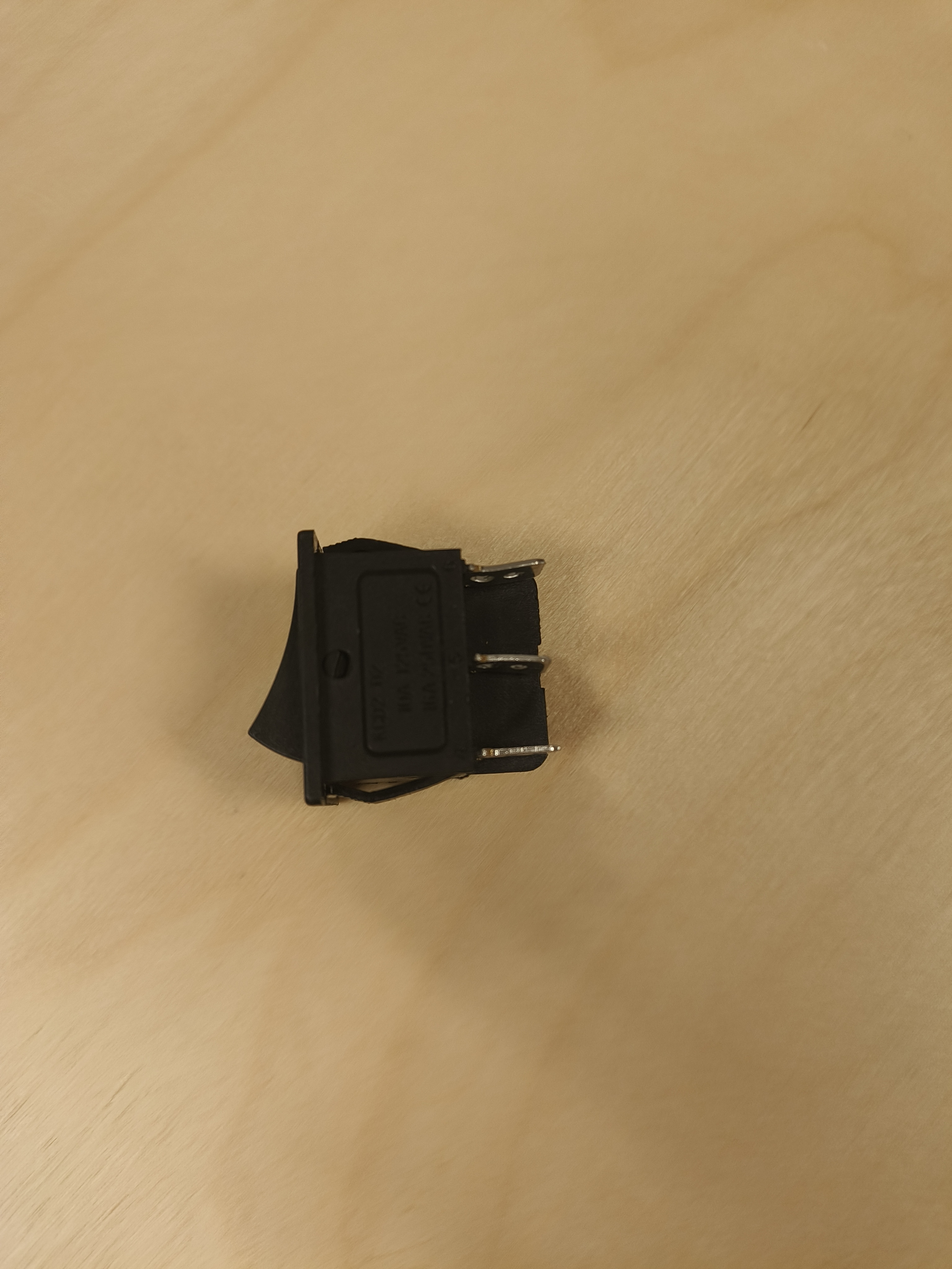
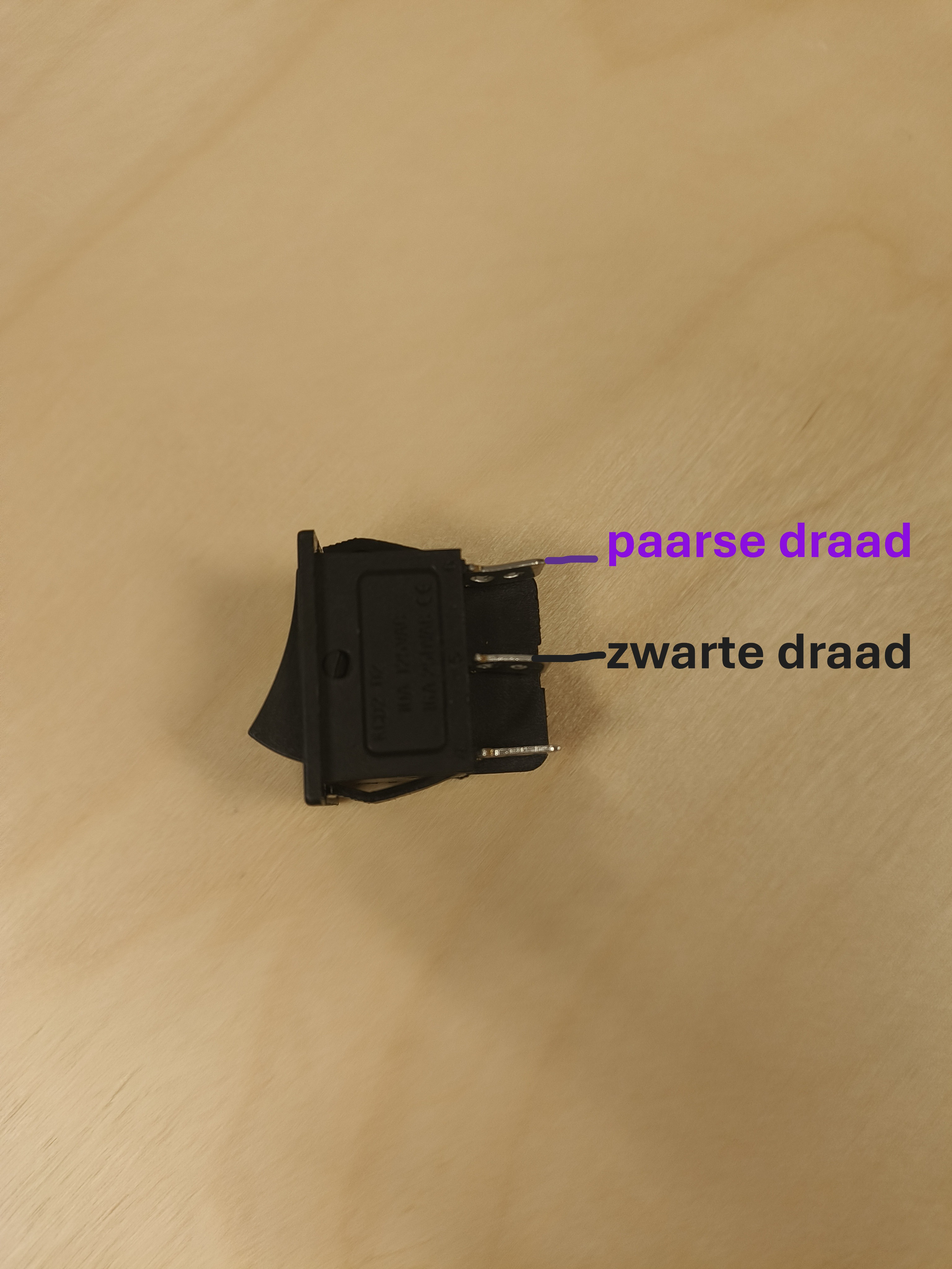
update

Changed region(s): [[0.5625, 0.4062, 0.9688, 0.4688], [0.5625, 0.5, 0.9688, 0.5312]]

diff --git a/Archief/README.md b/Archief/README.md
@@ -1,0 +1,59 @@
+# Snelheidsbegrenzing
+Dit is een bestand over de onderdelen die we onderzocht hebben met het orginele idee om de snelheid te begrenzen, 
+maar we hebben geen snelheidsbegrenzer meer nodig aangezien we de low speed modus zullen gebruiken.
+
+## Snelheidsbegrenzer
+### Huidige motor
+
+#### HY2005M-HL-24V
+
+Dit is de motor die momenteel in de auto zit. De motor controller heeft een schakelaar met een ingangsspanning van 24V, dit is ontworpen voor het regelen van de snelheid in twee standen (low speed & high speed) en de richting (vooruit & achteruit).
+
+- Een ingangsspanning van 24V DC
+- De maximum stroom is 40A
+- Er is vooruit & achteruit ondersteuning
+- Er zijn 2 driver motoren aangesloten
+- Schakelaar voor 2 standen (low speed & high speed)
+
+---
+### Mogelijke opties
+
+#### DC 10-50V PWM motor controller met schakelaar
+
+Dit is een motor controller met een veelzijdige schakelaar met een ingangsspanning van 12V, 24V, 36V of 48V, ontworpen voor het regelen van de snelheid en richting van gelijkstroommotoren. Met behulp van Pulse Width Modulation (PWM) kan de regelaar de motorsnelheid nauwkeurig aanpassen. Dit zorgt ervoor om de rotatiesnelheid van de motor te veranderen en aan te passen. Ook is er een schakelaar om de motor in of uit te schakelen.
+
+- Een ingangsspanning van 10V DC tot 55V DC
+- De uitgangsspanning is lineair met de belasting
+- De maximum stroom is 40A
+- Er is vooruit & achteruit ondersteuning
+- Het is regelbaar via een 100K potentiometer
+- Een bestuuringsfrequentie van 15 Khz
+
+---
+#### DC motor snelheidsregelaar 9-60V
+
+Deze motor maakt het mogelijk gelijkstroommotoren te bedienen. Met de vooruit/achteruit schakelaar verander je eenvoudig de draairichting en met de potmeter regel je de snelheid. Met behulp van Pulse Width Modulation (PWM) kan de regelaar de motorsnelheid nauwkeurig aanpassen. Dit zorgt ervoor om de rotatiesnelheid van de motor te veranderen en aan te passen.
+
+- Bedrijfsspanning: DC9V-60V
+- Lineaire uitgangsspanning onder belasting
+- Aanhoudende stroom: 18A
+- Snelheidspotentiometer
+- Er is vooruit & achteruit ondersteuning
+
+---
+
+#### SmartDrive DC motor driver
+<img src="Afbeeldingen/Motor3.png" height="350" width="auto">
+
+Deze motor maakt het mogelijk gelijkstroommotoren te bedienen. De motor kan 60A per kanaal voeden. 
+Het kan ook bestuurd worden via een joystick of via een microcontroller.
+
+- Ingansspanning: DC7V-45V
+- 2 kanalen om 2 motoren aan te sturen
+- Aanhoudende stroom: 60A, max 100A
+- 16Khz schakelfrequentie
+- Er is vooruit & achteruit ondersteuning
+---
+
+
+
